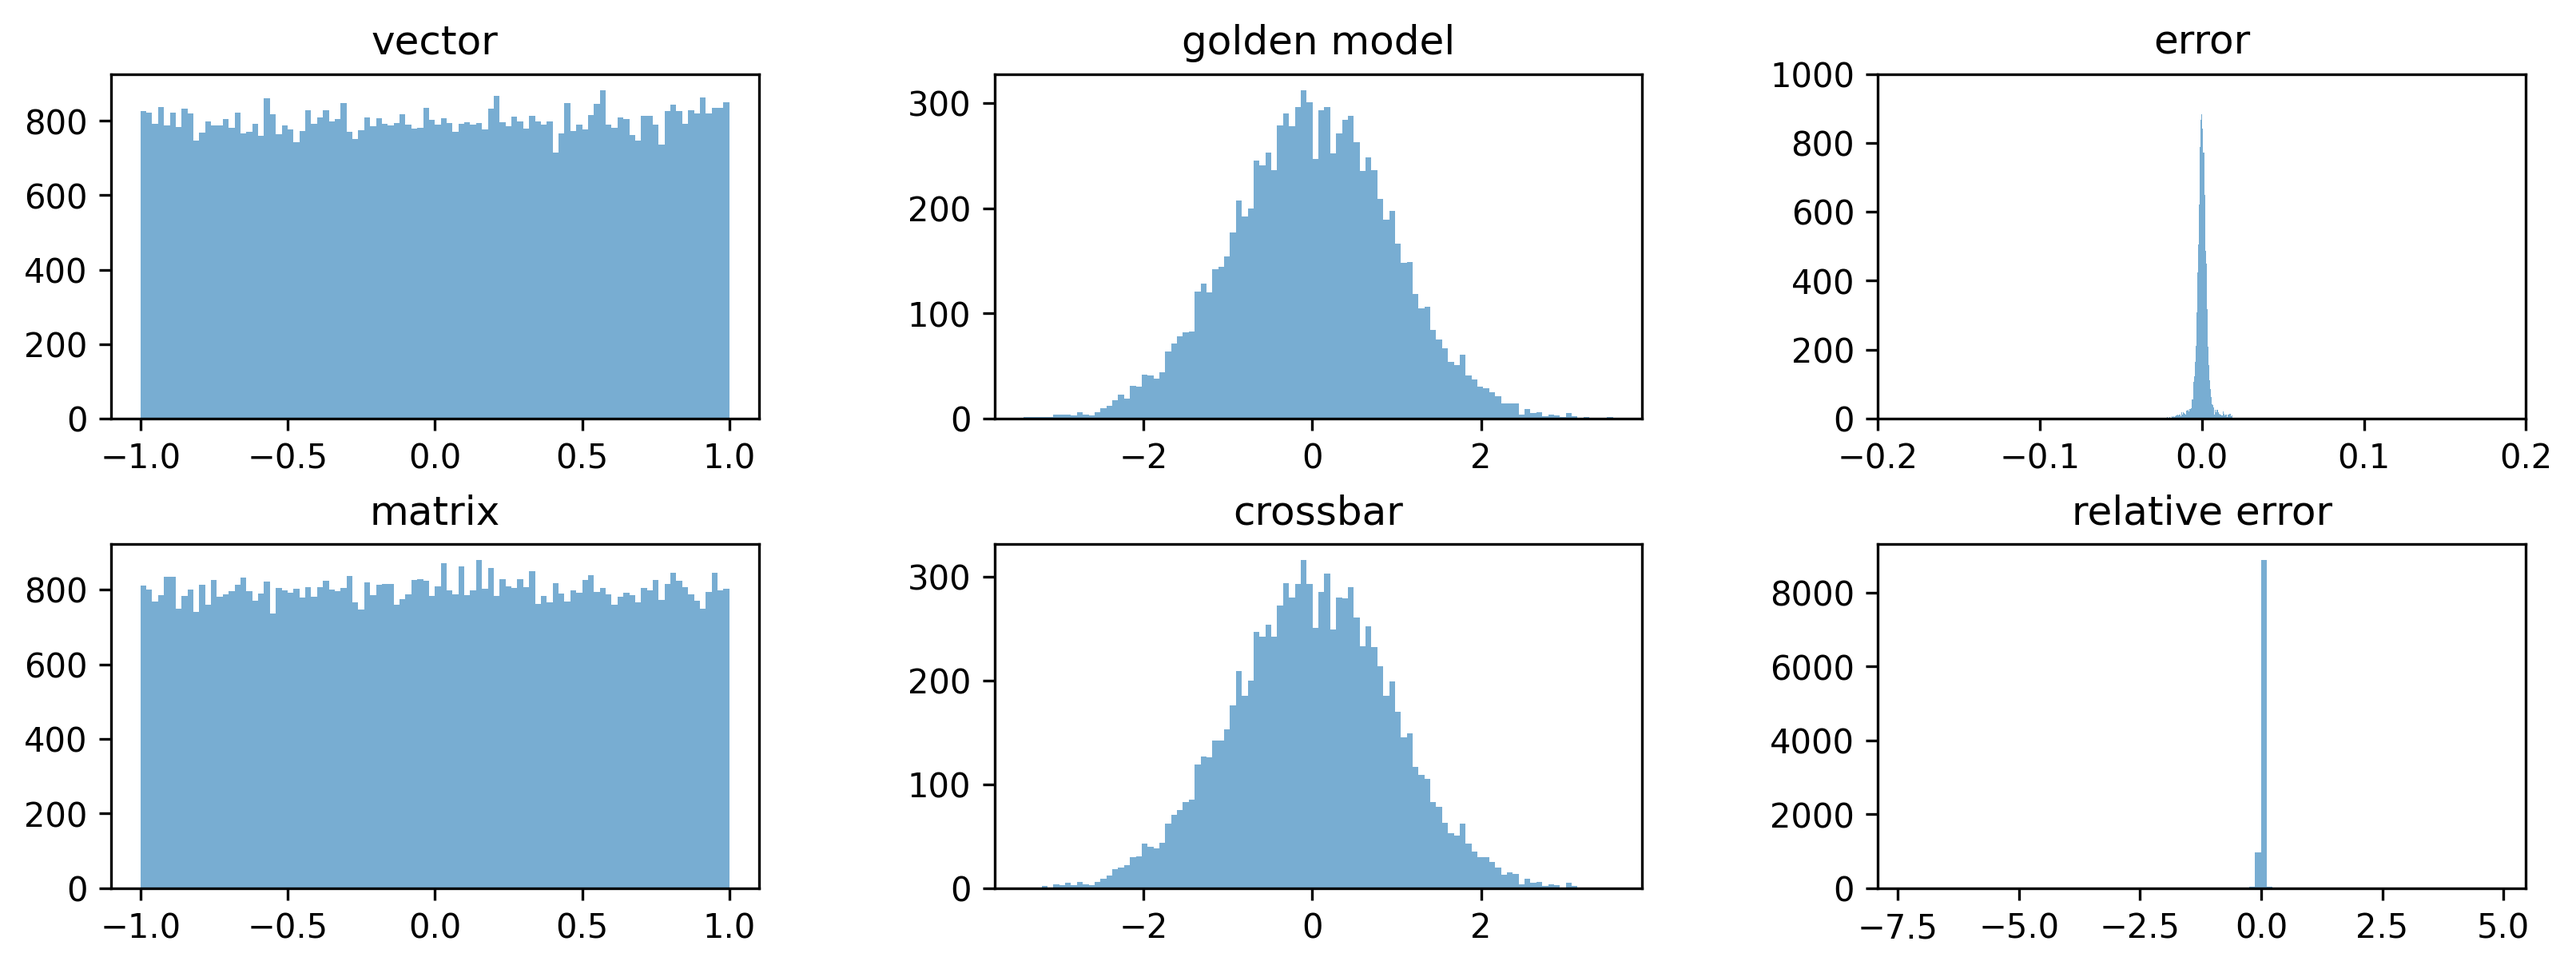
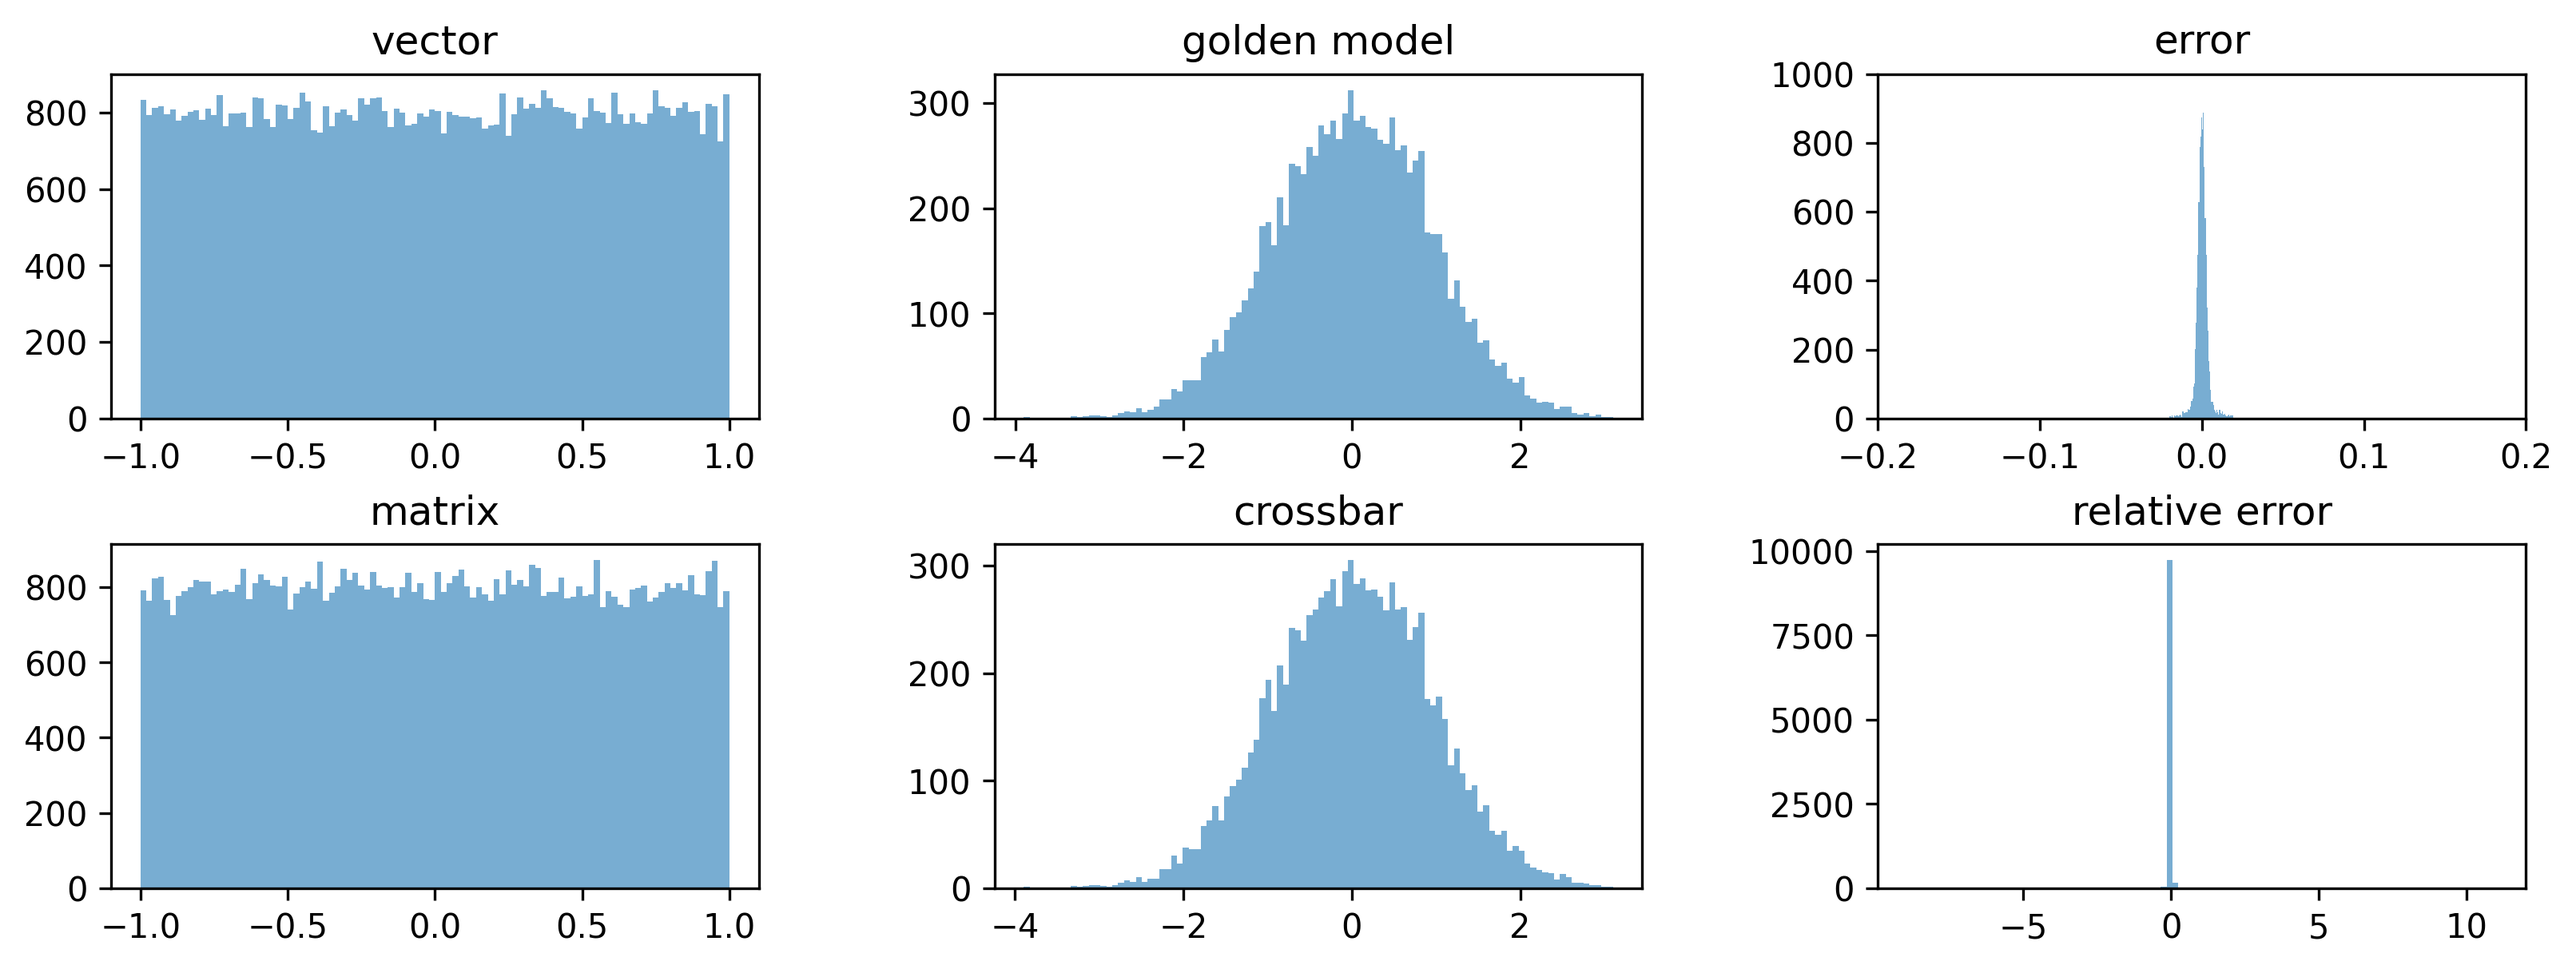
power_reconstruction_version_2

diff --git a/simbrain/power.py b/simbrain/power.py
@@ -48,9 +48,8 @@ class Power(torch.nn.Module):
         AR = self.tech_info_dict[str(self.process_node)]['AR']
         Rho = self.tech_info_dict[str(self.process_node)]['Rho']
         wire_resistance_unit = relax_ratio * mem_size * Rho / (AR * self.process_node * self.process_node * 1e-18)
-        # self.total_wire_resistance = wire_resistance_unit * (torch.arange(1, self.shape[1] + 1, device=self.mem_c) + 
-        #                                                       torch.arange(self.shape[0], 0, -1, device=self.mem_c)[:, None])
-        self.total_wire_resistance = torch.zeros(self.shape[0], device=self.mem_c.device)
+        self.total_wire_resistance = wire_resistance_unit * (torch.arange(1, self.shape[1] + 1, device=self.mem_c.device) + 
+                                                              torch.arange(self.shape[0], 0, -1, device=self.mem_c.device)[:, None])
     
         self.sim_power = {}
         
@@ -68,21 +67,20 @@ class Power(torch.nn.Module):
         self.mem_c = torch.zeros(batch_size, *self.shape, device=self.mem_c.device)
         self.mem_c_pre = torch.zeros(batch_size, *self.shape, device=self.mem_c_pre.device)
         self.mem_v = torch.zeros(batch_size, *self.shape, device=self.mem_v.device)
-        self.mem_v_read = torch.zeros(batch_size, *(self.shape[0],1), device=self.mem_v_read.device)
-        self.read_Isum = torch.zeros(batch_size, *(self.shape[1],), device=self.read_Isum.device)
-        self.selected_write_energy = torch.zeros(batch_size, *(self.shape[1],), device=self.selected_write_energy.device)
+        self.mem_v_read = torch.zeros(batch_size, *(self.shape[0],), device=self.mem_v_read.device)
+        self.read_Isum = torch.zeros(batch_size, *self.shape, device=self.read_Isum.device)
+        self.selected_write_energy = torch.zeros(batch_size, *(1,self.shape[1]), device=self.selected_write_energy.device)
         self.half_selected_write_energy = torch.zeros(batch_size, *self.shape, device=self.selected_write_energy.device)
-        self.total_wire_resistance = torch.stack([self.total_wire_resistance] * self.batch_size)
+        self.total_wire_resistance = torch.stack([self.total_wire_resistance] * self.batch_size).cuda()
         
     
     def read_energy_calculation(self, mem_v_read, mem_c) -> None:
         
         self.mem_v_read = mem_v_read
         self.mem_c = mem_c
-        self.dynamic_read_energy += torch.sum(self.mem_v_read * self.mem_v_read * self.wire_cap_cow * self.shape[0])
-        mem_v_read_expand = self.mem_v_read.expand(self.mem_c.size(0),self.mem_c.size(1),self.mem_c.size(2))
-        self.read_Isum = torch.sum(mem_v_read_expand/(1/self.mem_c + self.total_wire_resistance), dim=1)
-        self.static_read_energy += torch.sum(self.read_Isum * self.mem_v_read * self.dt * 1/2)
+        self.dynamic_read_energy += torch.sum(self.mem_v_read * self.mem_v_read * self.wire_cap_row)
+        self.read_Isum = self.mem_v_read[:, :, :, None]/(1/self.mem_c + self.total_wire_resistance)[:, None, :, :]
+        self.static_read_energy += torch.sum(self.read_Isum[:, :, :, :] * self.mem_v_read[:, :, :, None] * self.dt * 1/2)
         self.read_energy = self.dynamic_read_energy + self.static_read_energy
 
 
@@ -94,25 +92,25 @@ class Power(torch.nn.Module):
         
         if self.device_structure == 'trace':
             self.dynamic_write_energy += torch.sum(self.mem_v.squeeze() * self.mem_v.squeeze() * self.wire_cap_col)
-            self.selected_write_energy = (self.mem_v * self.mem_v * 1/2 * self.dt /(1/2 * (self.mem_c + self.mem_c_pre) + self.total_wire_resistance)).squeeze()
+            self.selected_write_energy = self.mem_v * self.mem_v * 1/2 * self.dt /(1/2 * (self.mem_c + self.mem_c_pre) + self.total_wire_resistance)
             self.static_write_energy += torch.sum(self.selected_write_energy)
         elif self.device_structure in {'crossbar', 'mimo'}:
             for write_row in range(self.shape[0]):
-                self.dynamic_write_energy += torch.sum(self.mem_v[:,write_row,:] * self.mem_v.squeeze[:,write_row,:] * self.wire_cap_col)
-                self.dynamic_write_energy += torch.max(self.mem_v[:,write_row,:]) * torch.max(self.mem_v[:,write_row,:]) * self.wire_cap_row * (1 + 1/4 * (self.shape[0] - 1))
-                self.selected_write_energy = self.mem_v[:,write_row,:] * self.mem_v[:,write_row,:] * 1/2 * self.dt /(1/2 * (self.mem_c[:,write_row,:] + self.mem_c_pre[:,write_row,:]) + self.total_wire_resistance[:,write_row,:])
+                self.dynamic_write_energy += torch.sum(self.mem_v[:,write_row,:] * self.mem_v[:,write_row,:] * self.wire_cap_col)
+                self.dynamic_write_energy += torch.sum(torch.max(self.mem_v[:,write_row,:], dim=1)[0] * torch.max(self.mem_v[:,write_row,:], dim=1)[0] * self.wire_cap_row * (1 + 1/4 * (self.shape[0] - 1)))
+                self.selected_write_energy = (self.mem_v[:,write_row,:] * self.mem_v[:,write_row,:] * 1/2 * self.dt /(1/2 * (self.mem_c[:,write_row,:] + self.mem_c_pre[:,write_row,:]) + self.total_wire_resistance[:,write_row,:])).unsqueeze(1)
                 half_selected_write_energy_pre = self.mem_v[:,0:write_row,:] * self.mem_v[:,0:write_row,:] * 1/2 * 1/2 * 1/2 * self.dt /(self.mem_c[:,0:write_row,:]+ self.total_wire_resistance[:,0:write_row,:])
                 half_selected_write_energy_post = self.mem_v[:,write_row+1:,:] * self.mem_v[:,write_row+1:,:] * 1/2 * 1/2 * 1/2 * self.dt /(self.mem_c_pre[:,write_row+1:,:] + self.total_wire_resistance[:,write_row+1:,:])
-                self.half_selected_write_energy = torch.cat([half_selected_write_energy_pre,torch.zeros_like(self.selected_write_energy), half_selected_write_energy_post])
+                self.half_selected_write_energy = torch.cat([half_selected_write_energy_pre,torch.zeros_like(self.selected_write_energy), half_selected_write_energy_post], dim=1)
                 self.static_write_energy += (torch.sum(self.selected_write_energy)+torch.sum(self.half_selected_write_energy))
         else:
             raise Exception("Only trace, mimo and crossbar architecture are supported!") 
        
             
-    def total_energy(self) -> None:
+    def total_energy_calculation(self, mem_t) -> None:
         
         self.total_energy = self.read_energy + self.write_energy
-        self.average_power = self.total_energy / torch.max(self.mem_t)
+        self.average_power = self.total_energy / (torch.max(mem_t) * self.dt)
         self.sim_power = {'dynamic_read_energy': self.dynamic_read_energy, 'dynamic_write_energy': self.dynamic_write_energy,
                  'static_read_energy': self.static_read_energy, 'static_write_energy': self.static_write_energy,
                  'read_energy':self.read_energy, 'write_energy': self.write_energy,

diff --git a/examples/STDP/bindsnet/network/network.py b/examples/STDP/bindsnet/network/network.py
@@ -116,7 +116,9 @@ class Network(torch.nn.Module):
         self.layers = {}
         self.connections = {}
         self.monitors = {}
-
+        self.sim_power = {}
+        self.total_energy = 0
+        self.average_power = 0
         self.train(learning)
 
         if reward_fn is not None:
@@ -124,8 +126,6 @@ class Network(torch.nn.Module):
         else:
             self.reward_fn = None
 
-        self.total_energy = 0
-        self.average_power = 0
 
     def add_layer(self, layer: Nodes, name: str) -> None:
         # language=rst
@@ -362,14 +362,24 @@ class Network(torch.nn.Module):
                         self.monitors[m].reset_state_variables()
 
                 break
-        
-        for l in self.layers:
-            self.layers[l].update_SAF_mask()
+
 
         # TODO: update SAF mask
         for l in self.layers:
             self.layers[l].update_SAF_mask()
 
+        if (self.layers[l].traces and self.sim_params['device_name'] != 'trace' and self.learning):            
+            self.total_energy = 0
+            self.average_power = 0
+            for l in self.layers:
+                self.layers[l].transform.mem_array.total_energy_calculation()
+                self.sim_power = self.layers[l].transform.mem_array.power.sim_power
+                self.total_energy += self.sim_power['total_energy']
+                self.average_power += self.sim_power['average_power']
+            print("total_energy=", self.total_energy)
+            print("average_power=", self.average_power)
+                
+                
         # Effective number of timesteps.
         timesteps = int(time / self.dt)
 
@@ -407,11 +417,7 @@ class Network(torch.nn.Module):
                     self.layers[l].forward(x=current_inputs[l])
                 else:
                     self.layers[l].forward(x=torch.zeros(self.layers[l].s.shape))
-                
-                # if (self.layers[l].traces and self.sim_params['device_name'] != 'trace' and self.learning):
-                    # self.total_energy += self.layers[l].transform.mem_array.power.total_Energy
-                    # self.average_power += self.layers[l].transform.mem_array.power.average_Powernergy
-                    # self.average_power += self.layers[l].transform.mem_array.power.average_Power
+
 
                 # Clamp neurons to spike.
                 clamp = clamps.get(l, None)
@@ -450,9 +456,6 @@ class Network(torch.nn.Module):
             for m in self.monitors:
                 self.monitors[m].record()
 
-        # # Print power results
-        # print("total_energy:", self.total_energy)
-        # print("average_power:", self.average_power)
 
         # Re-normalize connections.
         for c in self.connections:

diff --git a/simbrain/memarray.py b/simbrain/memarray.py
@@ -94,7 +94,7 @@ class MemristorArray(torch.nn.Module):
         self.batch_size = batch_size
 
         self.mem_x = torch.zeros(batch_size, *self.shape, device=self.mem_x.device)
-        self.mem_c = torch.zeros(batch_size, *self.shape, device=self.mem_c.device)
+        self.mem_c = torch.ones(batch_size, *self.shape, device=self.mem_c.device) * self.memristor_info_dict[self.device_name]['G_on']
         self.mem_t = torch.zeros(batch_size, *self.shape, device=self.mem_t.device)
         self.mem_i = torch.zeros(batch_size, 1, self.shape[1], device=self.mem_c.device)
 
@@ -203,7 +203,7 @@ class MemristorArray(torch.nn.Module):
         Aging_k_on = mem_info['Aging_k_on']
         Aging_k_off = mem_info['Aging_k_off']
 
-        self.mem_t += 1
+        self.mem_t += self.shape[1]
         mem_c_pre = self.mem_c.clone()
 
         if self.d2d_variation in [1, 3]:
@@ -327,3 +327,5 @@ class MemristorArray(torch.nn.Module):
                 self.SAF1_mask += (~(self.SAF0_mask + self.SAF1_mask)) & \
                                   ((self.Q_mask >= ((SAF_ratio / (SAF_ratio + 1)) * increase_ratio)) & (self.Q_mask < increase_ratio))
 
+    def total_energy_calculation(self) -> None:
+        self.power.total_energy_calculation(mem_t=self.mem_t)

diff --git a/examples/STDP/batch_SOM_LM-SNNs.py b/examples/STDP/batch_SOM_LM-SNNs.py
@@ -53,7 +53,7 @@ parser.add_argument("--d2d_variation", type=int, default=0) # 0: No d2d variatio
 parser.add_argument("--stuck_at_fault", type=bool, default=False)
 parser.add_argument("--retention_loss", type=int, default=0) # retention loss, 0: without it, 1: during pulse, 2: no pluse for a long time
 parser.add_argument("--aging_effect", type=int, default=0) # 0: No aging effect, 1: equation 1, 2: equation 2
-parser.add_argument("--process_node", type=int, default=32)
+parser.add_argument("--process_node", type=int, default=10000)
 
 parser.set_defaults(plot=False, gpu=True)
 

diff --git a/simbrain/mapping.py b/simbrain/mapping.py
@@ -191,6 +191,7 @@ class STDPMapping(Mapping):
         self.mem_array.mem_t += self.batch_interval * (self.batch_size - 1)
 
 
+
 class MimoMapping(Mapping):
     # language=rst
     """
